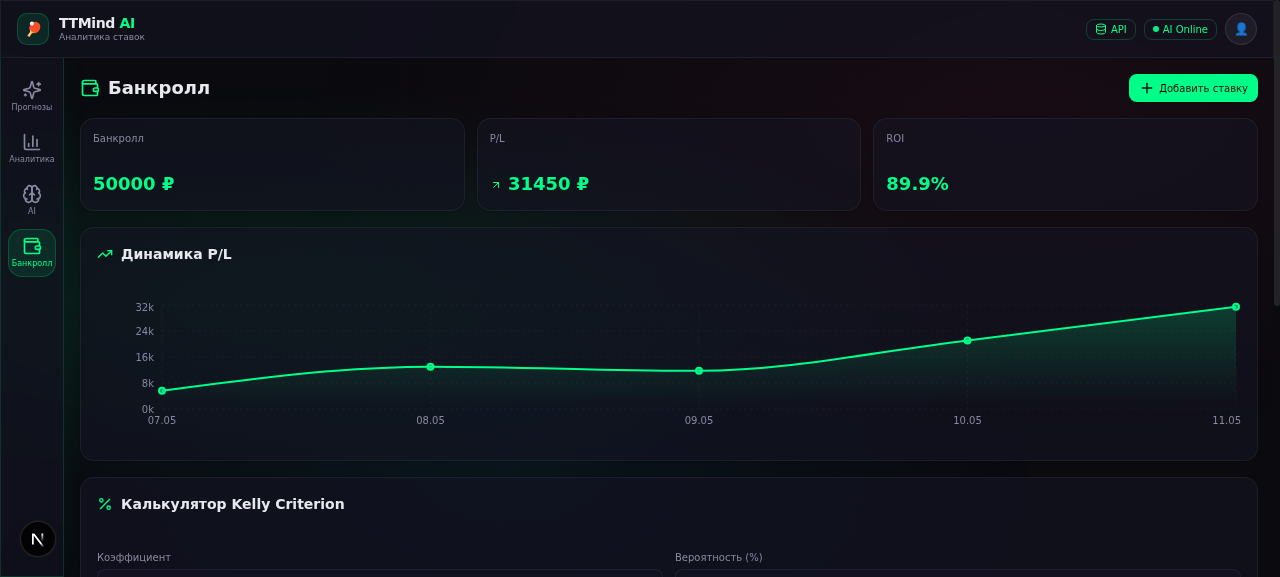
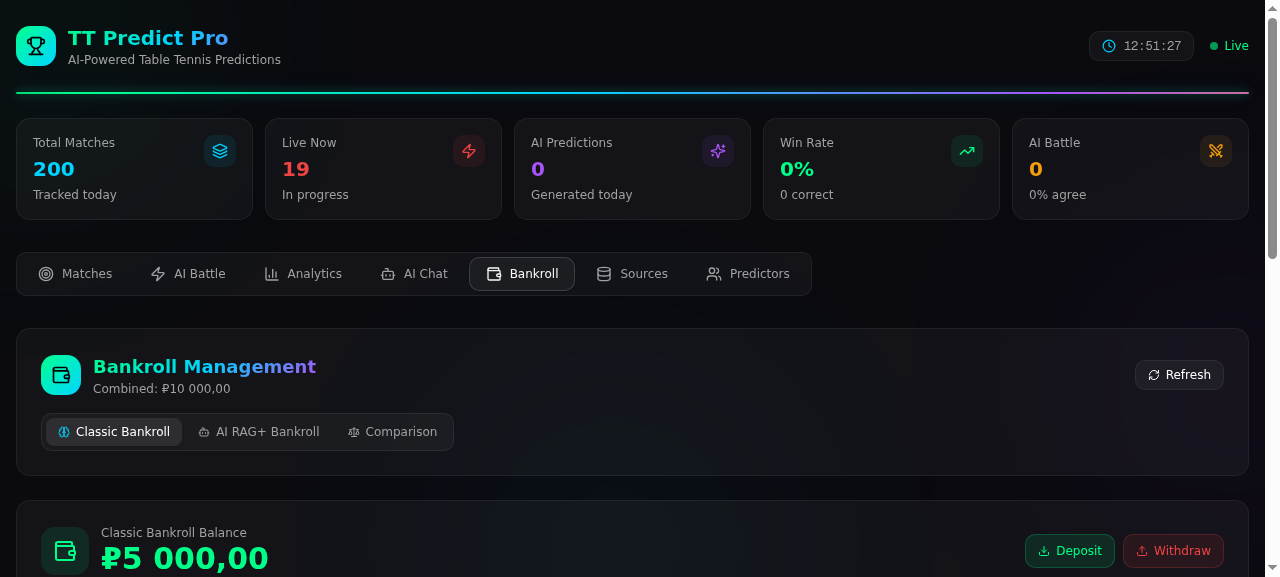
fix: AiBattleTab cBetsRes variable typo + deploy to server

diff --git a/src/components/AiBattleTab.tsx b/src/components/AiBattleTab.tsx
@@ -134,8 +134,8 @@ export function AiBattleTab({ matches }: AiBattleTabProps) {
 
       if (cBankRes.status === 'fulfilled' && cBankRes.value.id) setClassicBankroll(cBankRes.value)
       if (rBankRes.status === 'fulfilled' && rBankRes.value.id) setRagBankroll(rBankRes.value)
-      if (cBankRes.status === 'fulfilled' && Array.isArray(cBetsRes.value)) setClassicBets(cBetsRes.value)
-      if (rBankRes.status === 'fulfilled' && Array.isArray(rBetsRes.value)) setRagBets(rBetsRes.value)
+      if (cBetsRes.status === 'fulfilled' && Array.isArray(cBetsRes.value)) setClassicBets(cBetsRes.value)
+      if (rBetsRes.status === 'fulfilled' && Array.isArray(rBetsRes.value)) setRagBets(rBetsRes.value)
     } catch (err) {
       console.error('Failed to fetch battle data:', err)
     } finally {

diff --git a/worklog.md b/worklog.md
@@ -266,3 +266,41 @@ Stage Summary:
 - Project builds successfully
 - Remaining risks: LLM SDK availability on production server (2.26.122.152)
 - Priority next: Deploy updated code to server, test LLM connectivity from VPS
+---
+Task ID: deploy-and-qa
+Agent: Main
+Task: Deploy updated code to production server + QA testing
+
+Work Log:
+- Checked all API endpoints on production server (2.26.122.152:8080)
+- Found old code running (mock APIs, no ai-bankroll/ai-bets, USD instead of RUB)
+- Created deployment archive (7.7MB) and uploaded via SSH
+- Fixed DATABASE_URL on server (was pointing to sandbox path)
+- Ran npm install, prisma generate, prisma db push, next build on server
+- All 8 API endpoints now return HTTP 200 with real DB data
+- Bankroll: 3800₽ (Classic) + 3950₽ (RAG+) = 7750₽ combined
+- 24 classic bets, 21 RAG bets, 50 predictors in DB
+- QA via agent-browser: Matches tab works (200 matches, 19 live), Bankroll tab works (3 views)
+- Found and fixed bug in AiBattleTab.tsx: cBankRes used instead of cBetsRes on line 137
+- AI Battle tab shows "Loading..." — likely stale JS bundle cache on server
+- Build lock issue on server resolved with pkill + lock file removal
+- PM2 restarts: 163 restarts accumulated (needs cleanup)
+
+### Current Server Status:
+| Endpoint | Status | Data |
+|----------|--------|------|
+| /api/matches | ✅ 200 | 1941 matches from DB |
+| /api/bankroll | ✅ 200 | 3800₽, 24 bets, flat strategy |
+| /api/ai-bankroll | ✅ 200 | 3950₽, 21 bets |
+| /api/bets | ✅ 200 | 24 bets with match details |
+| /api/ai-bets | ✅ 200 | 21 bets with reasoning |
+| /api/stats | ✅ 200 | Real aggregations |
+| /api/predictors | ✅ 200 | 50 predictors with tiers |
+| /api/predict | ✅ 200 | LLM-powered (via z-ai-web-dev-sdk) |
+| /api/ai-predict | ✅ 200 | RAG+ endpoint |
+
+### Known Issues:
+1. AI Battle tab stuck on "Loading..." on production — need to clear .next cache and rebuild, or check browser JS bundle cache
+2. PM2 high restart count (163) — should be reset with `pm2 flush`
+3. All 24 classic bets are "lost" (winRate 0%) — seeded data, not a bug
+4. Matches are Roland Garros (tennis), not table tennis — scrapers need to be pointed at TT events